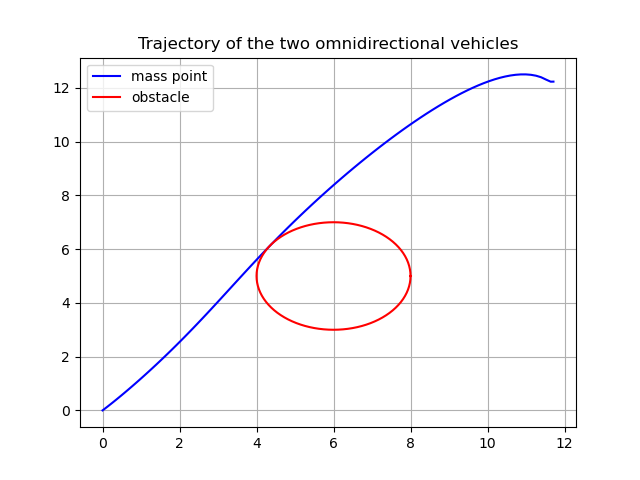
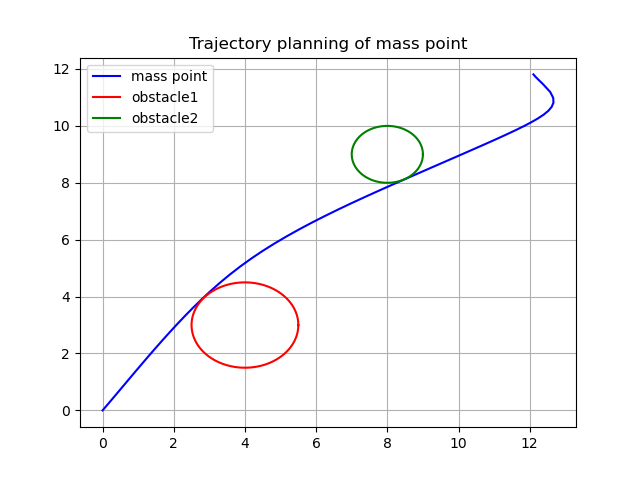
add some coments and another obstacle

diff --git a/iLQR/mass_point_planning.cpp b/iLQR/mass_point_planning.cpp
@@ -8,23 +8,28 @@ namespace plt = matplotlibcpp;
 
 int main()
 {
+    // init mass point model.
     MassPoint model(4, 2, 0.05, 1.0);
 
-    CircleObstacle obstacle1(Eigen::Vector<double, 4>(6.0, 5.0, 0.0, 0.0), 2.0);
+    // set obstacles.
+    CircleObstacle obstacle1(Eigen::Vector<double, 4>(4.0, 3.0, 0.0, 0.0), 1.5);
+    CircleObstacle obstacle2(Eigen::Vector<double, 4>(8.0, 9.0, 0.0, 0.0), 1.0);
     std::vector<CircleObstacle> obstacle;
     obstacle.clear();
     obstacle.emplace_back(obstacle1);
+    obstacle.emplace_back(obstacle2);
 
+    // set cost and target state.
     Eigen::MatrixXd Q, Q_term, Q_repell, R;
     Q.setZero(4, 4);
     Q_term.setZero(4, 4);
     Q_term(0, 0) = 200.0;
     Q_term(1, 1) = 200.0;
-    Q_term(2, 2) = 0.0;
-    Q_term(3, 3) = 0.0;
+    Q_term(2, 2) = 10.0;
+    Q_term(3, 3) = 10.0;
     Q_repell.setZero(4, 4);
-    Q_repell(0, 0) = 500.0;
-    Q_repell(1, 1) = 500.0;
+    Q_repell(0, 0) = 1000.0;
+    Q_repell(1, 1) = 1000.0;
     R.setIdentity(2, 2);
     R *= 0.01;
     
@@ -32,8 +37,9 @@ int main()
     x_goal << 12.0, 12.0, 0.0, 0.0;
 
     PotentialCost cost(Q, Q_term, Q_repell, R, x_goal, &obstacle);
-    
-    uint16_t N = 100;
+
+    // set init state and solver.
+    uint16_t N = 60;
     Eigen::VectorXd x0(4);
     x0 << 0.0, 0.0, 0.0, 0.0;
     std::vector<Eigen::VectorXd> us;
@@ -46,21 +52,25 @@ int main()
     iLQR lqr_sover(4, 2, N, &model, &cost);
     lqr_sover.fit(x0, us, xs, 500);
 
+    // display the solve result and obstacles.
     std::vector<double> point_x, point_y;
     for(uint16_t i = 0; i < xs.size(); i++)
     {
         point_x.emplace_back(xs[i](0));
         point_y.emplace_back(xs[i](1));
     }
-    std::vector<double> circle_x, circle_y;
+    std::vector<double> circle_x1, circle_y1, circle_x2, circle_y2;
     for(uint16_t i = 0; i < 101; i++)
     {
-        circle_x.emplace_back(std::cos(0.0628 * double(i)) * 2.0 + 6.0);
-        circle_y.emplace_back(std::sin(0.0628 * double(i)) * 2.0 + 5.0);
+        circle_x1.emplace_back(std::cos(0.0628 * double(i)) * 1.5 + 4.0);
+        circle_y1.emplace_back(std::sin(0.0628 * double(i)) * 1.5 + 3.0);
+        circle_x2.emplace_back(std::cos(0.0628 * double(i)) * 1.0 + 8.0);
+        circle_y2.emplace_back(std::sin(0.0628 * double(i)) * 1.0 + 9.0);
     }
     plt::named_plot("mass point", point_x, point_y, "b");
-    plt::named_plot("obstacle", circle_x, circle_y, "r");
-    plt::title("Trajectory of the two omnidirectional vehicles");
+    plt::named_plot("obstacle1", circle_x1, circle_y1, "r");
+    plt::named_plot("obstacle2", circle_x2, circle_y2, "g");
+    plt::title("Trajectory planning of mass point");
     plt::grid(true);
     plt::legend();
 
